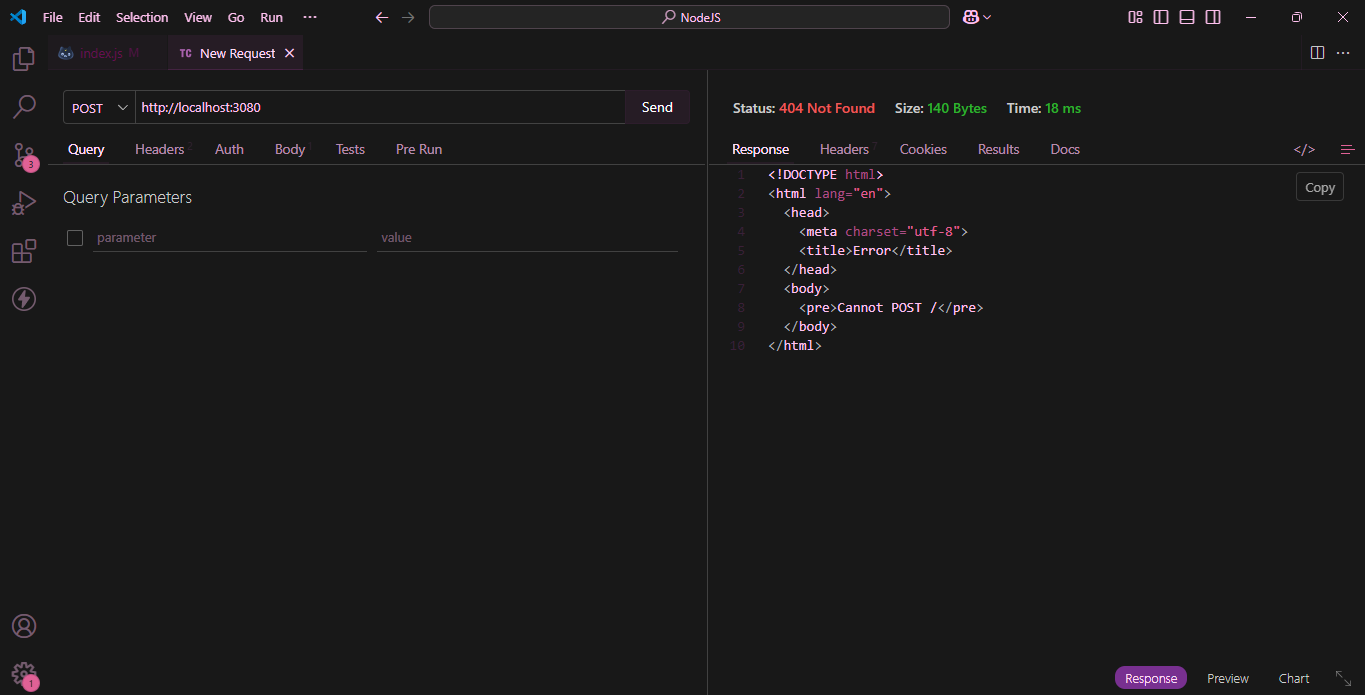
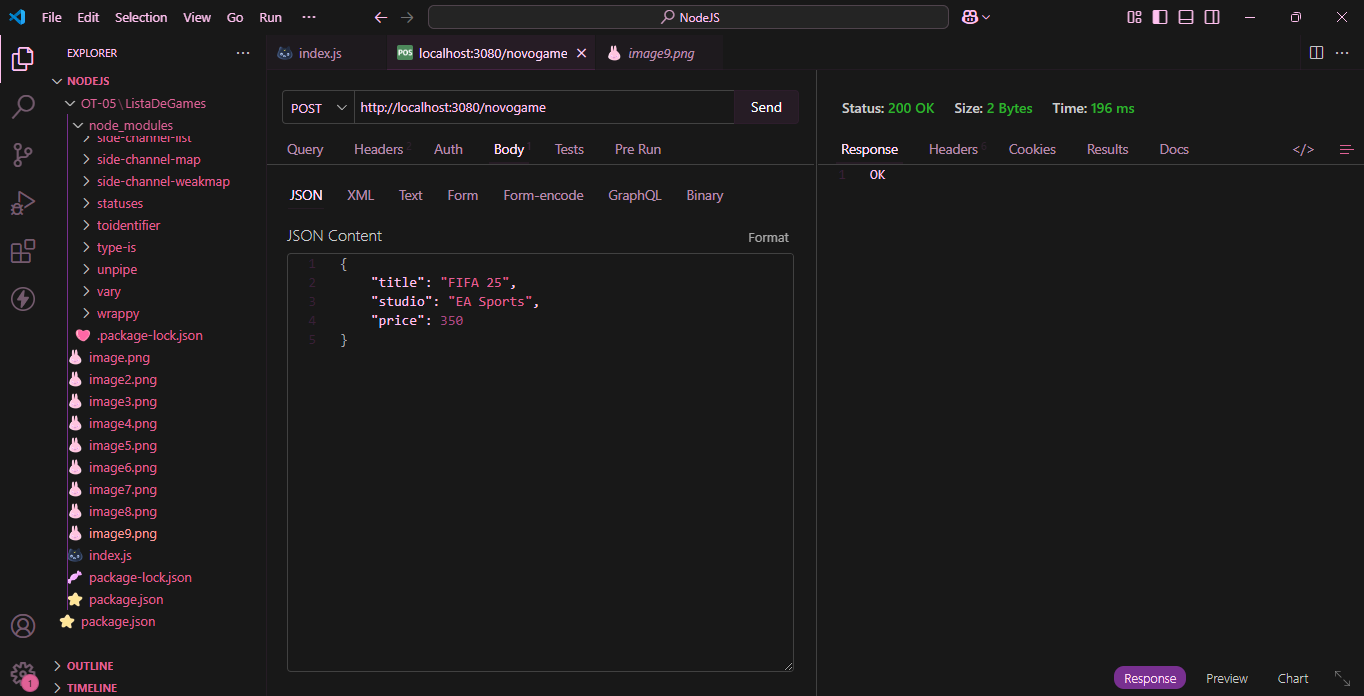
Descarregando OT 7 e 8 na continuação da 5

diff --git a/OT-05/ListaDeGames/index.js b/OT-05/ListaDeGames/index.js
@@ -45,6 +45,23 @@ let games = [
     {title: "Stardew Valley", studio: "ConcernedApe", price: 25},
 ]
 
+app.put('/novogame/:index', (req, res) => {
+    const {index} = req.params;
+    let title = req.body.title;
+    let studio = req.body.studio;
+    let price = req.body.price;
+
+    games[index] = {title, studio, price};
+
+    return res.json(games);
+});
+
+app.delete("/:index", (req, res) => {
+    const {index} = req.params;
+    games.splice(index,1);
+    return res.json({ message: "O jogo foi deletado"});
+});
+
 app.listen(3080,() => {
     console.log("Servidor rodando!");
 });
